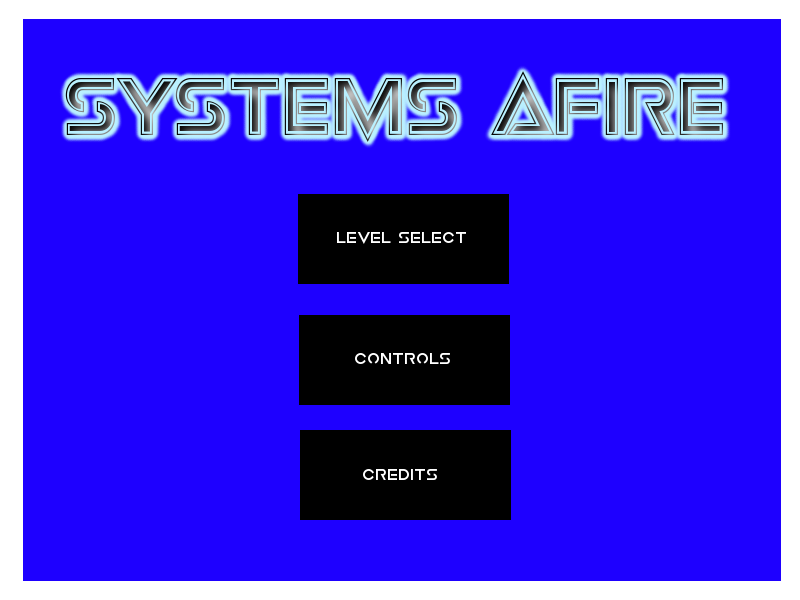
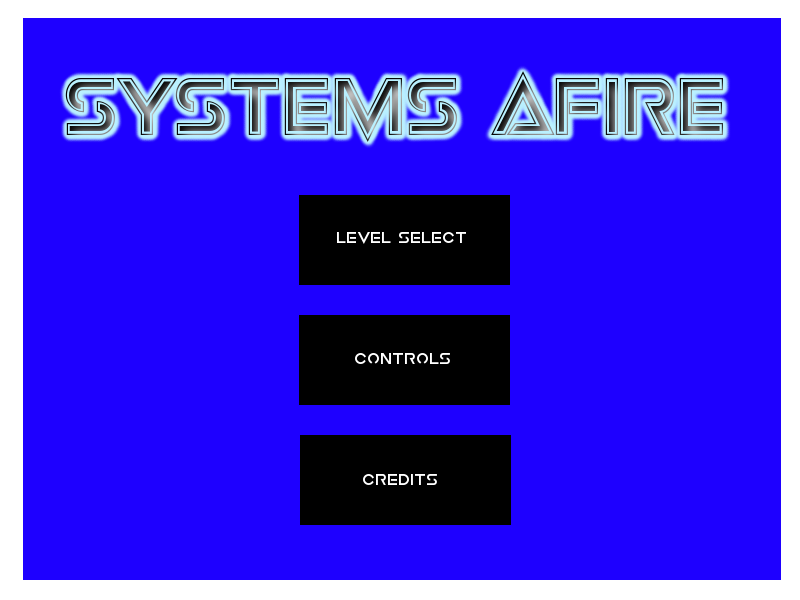
made changes to how title screen and level select layers are rendered

Changed region(s): [[0.375, 0.84, 0.625, 0.9], [0.375, 0.69, 0.625, 0.75], [0.4375, 0.78, 0.5625, 0.81]]

diff --git a/StarshipArena/src/StarshipArena.java b/StarshipArena/src/StarshipArena.java
@@ -65,9 +65,9 @@ public class StarshipArena {
 	Sidebar sidebar;
 	Layer titlePage;
 	Layer levelSelect;
-	Button levelSelectButton = new Button(1100, 1110, 1620, 930);
-	Button level1Button = new Button(600, 1300, 800, 1100);
-	Button controlsButton = new Button(1100, 1185, 1620, 1095);
+	Button levelSelectButton = new Button(550, 555, 760, 465);
+	Button level1Button = new Button(300, 650, 400, 550);
+	Button controlsButton = new Button(550, 435, 760, 345);
 	Layer boxSelect;
 	boolean boxSelectCurrent = false;
 	
@@ -113,10 +113,15 @@ public class StarshipArena {
 
 		// Setup a key callback. It will be called every time a key is pressed, repeated or released.
 		glfwSetKeyCallback(window, (window, key, scancode, action, mods) -> {
-			if ( key == GLFW_KEY_ESCAPE && action == GLFW_RELEASE )
+			if ( key == GLFW_KEY_ESCAPE && action == GLFW_RELEASE ){
 //				glfwSetWindowShouldClose(window, true); // We will detect this in the rendering loop
+				CAMERA_WIDTH = 2600;
+				CAMERA_HEIGHT = 1800;
+				zoomLevel = 3;
+				CURR_X = 0;
+				CURR_Y = 0;
 				gameState = 1;
-			
+			}
 			//Figure out which arrow keys, if any, are depressed and tell the loop to pan the camera
 			if ( key == GLFW_KEY_A && action == GLFW_PRESS )
 				panLeft = true;
@@ -165,17 +170,22 @@ public class StarshipArena {
 		
 		});
 		
+		//Mouse clicks
 		glfwSetMouseButtonCallback (window, (window, button, action, mods) -> {
-			DoubleBuffer xpos = BufferUtils.createDoubleBuffer(2);
-			DoubleBuffer ypos = BufferUtils.createDoubleBuffer(2);
+			DoubleBuffer xpos = BufferUtils.createDoubleBuffer(3);
+			DoubleBuffer ypos = BufferUtils.createDoubleBuffer(3);
 			glfwGetCursorPos(window, xpos, ypos);
 			//convert the glfw coordinate to our coordinate system
+			//relative camera coordinates
 			xpos.put(1, getWidthScalar() * xpos.get(0) + CURR_X);
 			ypos.put(1, (getHeightScalar() * (WINDOW_HEIGHT - ypos.get(0)) + CURR_Y));
+			//true window coordinates
+			xpos.put(2, xpos.get(0));
+			ypos.put(2, (WINDOW_HEIGHT - ypos.get(0)));
 			if(gameState == 1){
 				if ( button == GLFW_MOUSE_BUTTON_LEFT && action == GLFW_RELEASE) {
 				//System.out.println(xpos.get(1) + " " + ypos.get(1));
-					if(levelSelectButton.isClicked(xpos.get(1), ypos.get(1))){
+					if(levelSelectButton.isClicked(xpos.get(2), ypos.get(2))){
 						gameState = 2;
 					}
 				}
@@ -183,7 +193,7 @@ public class StarshipArena {
 			else if(gameState == 2){
 				if ( button == GLFW_MOUSE_BUTTON_LEFT && action == GLFW_RELEASE) {
 					//System.out.println(xpos.get(1) + " " + ypos.get(1));
-					if(level1Button.isClicked(xpos.get(1), ypos.get(1))){
+					if(level1Button.isClicked(xpos.get(2), ypos.get(2))){
 						gameState = 3;
 						loadLevel(1);
 					}
@@ -202,48 +212,10 @@ public class StarshipArena {
 					newMouseX = xpos;
 					newMouseY = ypos;
 					boxSelectCurrent = false;
-	//				glLineWidth((float)2.5); 
-	//				glColor3f(255, 255, 255);
-	//				glBegin(GL_LINES);
-	//				glVertex2f((float)oldMouseX.get(0), (float)oldMouseY.get(0));
-	//				glVertex2f((float)newMouseX.get(0), (float)newMouseY.get(0));
-	//				glEnd();
-					for (int i = 0; i < planets.size(); i++) {
-						Planet p = planets.get(i);
-						if (p.getX() < Math.max(newMouseX.get(1), oldMouseX.get(1)) + p.getSize() - 30
-								&& p.getX() > Math.min(oldMouseX.get(1), newMouseX.get(1)) - p.getSize() + 30
-								&& p.getY() < Math.max(newMouseY.get(1), oldMouseY.get(1))- 30
-								&& p.getY() > Math.min(oldMouseY.get(1), newMouseY.get(1))+ 30
-								|| p.getX() < Math.max(newMouseX.get(1), oldMouseX.get(1))- 30
-								&& p.getX() > Math.min(oldMouseX.get(1), newMouseX.get(1))+ 30
-								&& p.getY() < Math.max(newMouseY.get(1), oldMouseY.get(1)) + p.getSize() - 30
-								&& p.getY() > Math.min(oldMouseY.get(1), newMouseY.get(1)) - p.getSize() + 30) {
-							if(player.getSelectedPlanet() != null){
-								player.getSelectedPlanet().setSelected(false);
-							}
-							player.setSelectedPlanet(p);
-							p.setSelected(true);
-							clickedOnSprite = true;
-							break;
-						}
-						else if (distance(newMouseX.get(1), newMouseY.get(1), p.getX(), p.getY()) <= p.getSize() - 30
-								|| distance(newMouseX.get(1), oldMouseY.get(1), p.getX(), p.getY()) <= p.getSize() - 30
-								|| distance(oldMouseX.get(1), newMouseY.get(1), p.getX(), p.getY()) <= p.getSize() - 30
-								|| distance(oldMouseX.get(1), oldMouseY.get(1), p.getX(), p.getY()) <= p.getSize() - 30) {
-							if(player.getSelectedPlanet() != null){
-								player.getSelectedPlanet().setSelected(false);
-							}
-							player.setSelectedPlanet(p);
-							p.setSelected(true);
-							clickedOnSprite = true;
-							break;
-						}
-						if(clickedOnSprite == false){
-							if(player.getSelectedPlanet() != null){
-								player.getSelectedPlanet().setSelected(false);
-								player.setSelectedPlanet(null);
-							}
-						}
+					//remove selected planet
+					if(player.getSelectedPlanet() != null){
+						player.getSelectedPlanet().setSelected(false);
+						player.setSelectedPlanet(null);
 					}
 					for (int i = 0; i < ships.size(); i++) {
 						Starship s = ships.get(i);
@@ -264,8 +236,46 @@ public class StarshipArena {
 								|| distance(oldMouseX.get(1), newMouseY.get(1), clickCenter.X(), clickCenter.Y()) <= s.getClickRadius()
 								|| distance(oldMouseX.get(1), oldMouseY.get(1), clickCenter.X(), clickCenter.Y()) <= s.getClickRadius()) {
 							s.setSelected(true);
+							clickedOnSprite = true;
 						}
 						else s.setSelected(false);
+					}
+					//if we haven't clicked on a ship, check if we clicked on a planet
+					if(!clickedOnSprite){
+						for (int i = 0; i < planets.size(); i++) {
+							Planet p = planets.get(i);
+							//allows box select of planet
+	//						if (p.getX() < Math.max(newMouseX.get(1), oldMouseX.get(1)) + p.getSize() - 30
+	//								&& p.getX() > Math.min(oldMouseX.get(1), newMouseX.get(1)) - p.getSize() + 30
+	//								&& p.getY() < Math.max(newMouseY.get(1), oldMouseY.get(1))- 30
+	//								&& p.getY() > Math.min(oldMouseY.get(1), newMouseY.get(1))+ 30
+	//								|| p.getX() < Math.max(newMouseX.get(1), oldMouseX.get(1))- 30
+	//								&& p.getX() > Math.min(oldMouseX.get(1), newMouseX.get(1))+ 30
+	//								&& p.getY() < Math.max(newMouseY.get(1), oldMouseY.get(1)) + p.getSize() - 30
+	//								&& p.getY() > Math.min(oldMouseY.get(1), newMouseY.get(1)) - p.getSize() + 30) {
+	//							System.out.println("check1");
+	//							if(player.getSelectedPlanet() != null){
+	//								player.getSelectedPlanet().setSelected(false);
+	//							}
+	//							player.setSelectedPlanet(p);
+	//							p.setSelected(true);
+	//							clickedOnSprite = true;
+	//							break;
+	//						}
+							if (distance(newMouseX.get(1), newMouseY.get(1), p.getX(), p.getY()) <= p.getSize() - 30
+									|| distance(newMouseX.get(1), oldMouseY.get(1), p.getX(), p.getY()) <= p.getSize() - 30
+									|| distance(oldMouseX.get(1), newMouseY.get(1), p.getX(), p.getY()) <= p.getSize() - 30
+									|| distance(oldMouseX.get(1), oldMouseY.get(1), p.getX(), p.getY()) <= p.getSize() - 30) {
+								System.out.println("check2");
+								if(player.getSelectedPlanet() != null){
+									player.getSelectedPlanet().setSelected(false);
+								}
+								player.setSelectedPlanet(p);
+								p.setSelected(true);
+								clickedOnSprite = true;
+								break;
+							}
+						}
 					}
 				}
 				if ( button == GLFW_MOUSE_BUTTON_RIGHT && action == GLFW_PRESS) {
@@ -361,15 +371,17 @@ public class StarshipArena {
 			
 			//display the title
 			if(gameState == 1){
-				titlePage.setTopLeft(500, CAMERA_HEIGHT - 300);
-				titlePage.setBottomRight(CAMERA_WIDTH - 500, 300);
+				projectTrueWindowCoordinates();
+				titlePage.setTopLeft(250, WINDOW_HEIGHT - 150);
+				titlePage.setBottomRight(WINDOW_WIDTH - 250, 150);
 				titlePage.setPoints();
 				titlePage.display();
 				glfwSwapBuffers(window); // swap the color buffers
 			}
 			if(gameState == 2){
-				levelSelect.setTopLeft(400, CAMERA_HEIGHT - 100);
-				levelSelect.setBottomRight(CAMERA_WIDTH - 400, 100);
+				projectTrueWindowCoordinates();
+				levelSelect.setTopLeft(200, WINDOW_HEIGHT - 50);
+				levelSelect.setBottomRight(WINDOW_WIDTH - 200, 50);
 				levelSelect.setPoints();
 				levelSelect.display();
 				glfwSwapBuffers(window); // swap the color buffers
@@ -380,6 +392,8 @@ public class StarshipArena {
 					slowCounter = 0;
 					//System.out.println(counter);
 					counter++;
+					
+					projectRelativeCameraCoordinates();
 					
 					//Display background
 					for (int t = 0; t < backgroundTiles.size(); t++) {
@@ -479,10 +493,7 @@ public class StarshipArena {
 					
 					//onMouseEvent();
 					
-					glMatrixMode(GL_PROJECTION);
-			        glLoadIdentity(); // Resets any previous projection matrices
-			        glOrtho(0, WINDOW_WIDTH, 0, WINDOW_HEIGHT, 1, -1);
-			        glMatrixMode(GL_MODELVIEW);
+					projectTrueWindowCoordinates();
 					
 					//display settings icon
 					settingsIcon.display();
@@ -555,10 +566,6 @@ public class StarshipArena {
 						CURR_Y = Math.min(WORLD_HEIGHT - CAMERA_HEIGHT, CURR_Y + CAMERA_SPEED);
 					
 					glfwSwapBuffers(window); // swap the color buffers
-					glMatrixMode(GL_PROJECTION);
-			        glLoadIdentity(); // Resets any previous projection matrices
-			        glOrtho(CURR_X, CURR_X + CAMERA_WIDTH, CURR_Y, CURR_Y + CAMERA_HEIGHT, 1, -1);
-			        glMatrixMode(GL_MODELVIEW);
 		        
 				}
 			}
@@ -567,6 +574,20 @@ public class StarshipArena {
 
 	public static void main(String[] args) {
 		new StarshipArena().run();
+	}
+	
+	public void projectRelativeCameraCoordinates(){
+		glMatrixMode(GL_PROJECTION);
+        glLoadIdentity(); // Resets any previous projection matrices
+        glOrtho(CURR_X, CURR_X + CAMERA_WIDTH, CURR_Y, CURR_Y + CAMERA_HEIGHT, 1, -1);
+        glMatrixMode(GL_MODELVIEW);
+	}
+	
+	public void projectTrueWindowCoordinates(){
+		glMatrixMode(GL_PROJECTION);
+        glLoadIdentity(); // Resets any previous projection matrices
+        glOrtho(0, WINDOW_WIDTH, 0, WINDOW_HEIGHT, 1, -1);
+        glMatrixMode(GL_MODELVIEW);
 	}
 	
 	public int[] getScreenBounds(){
